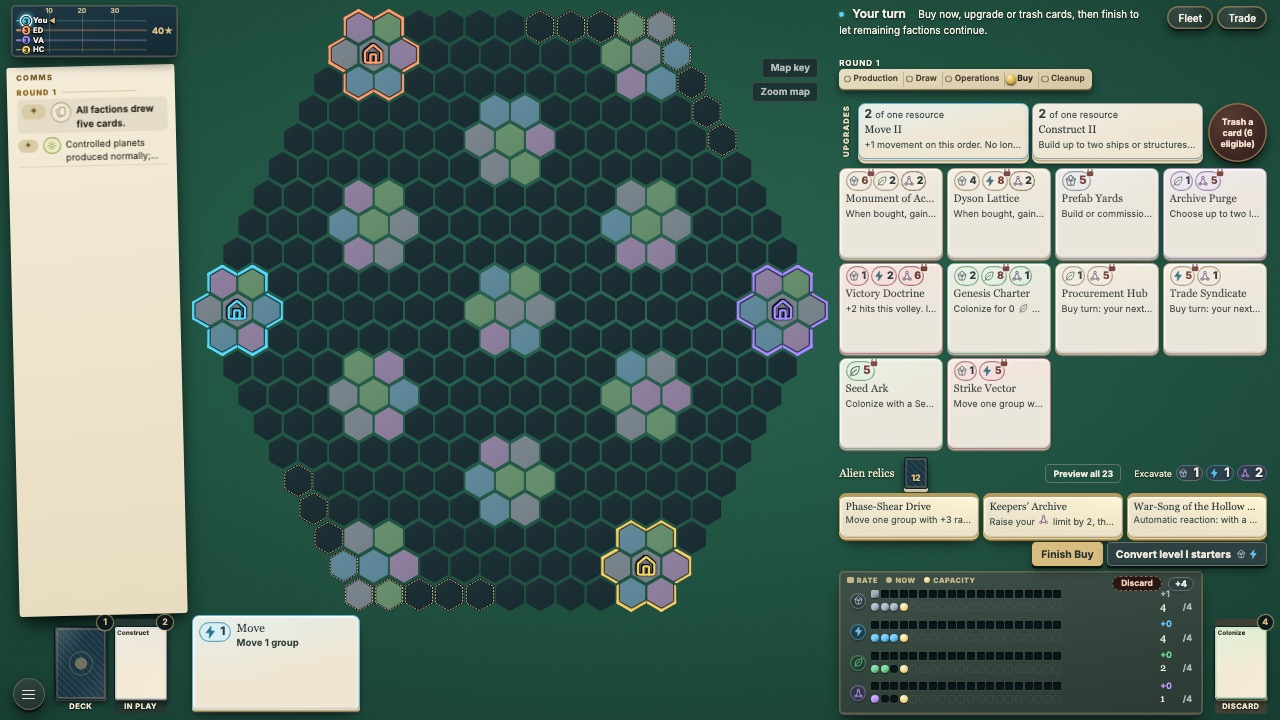
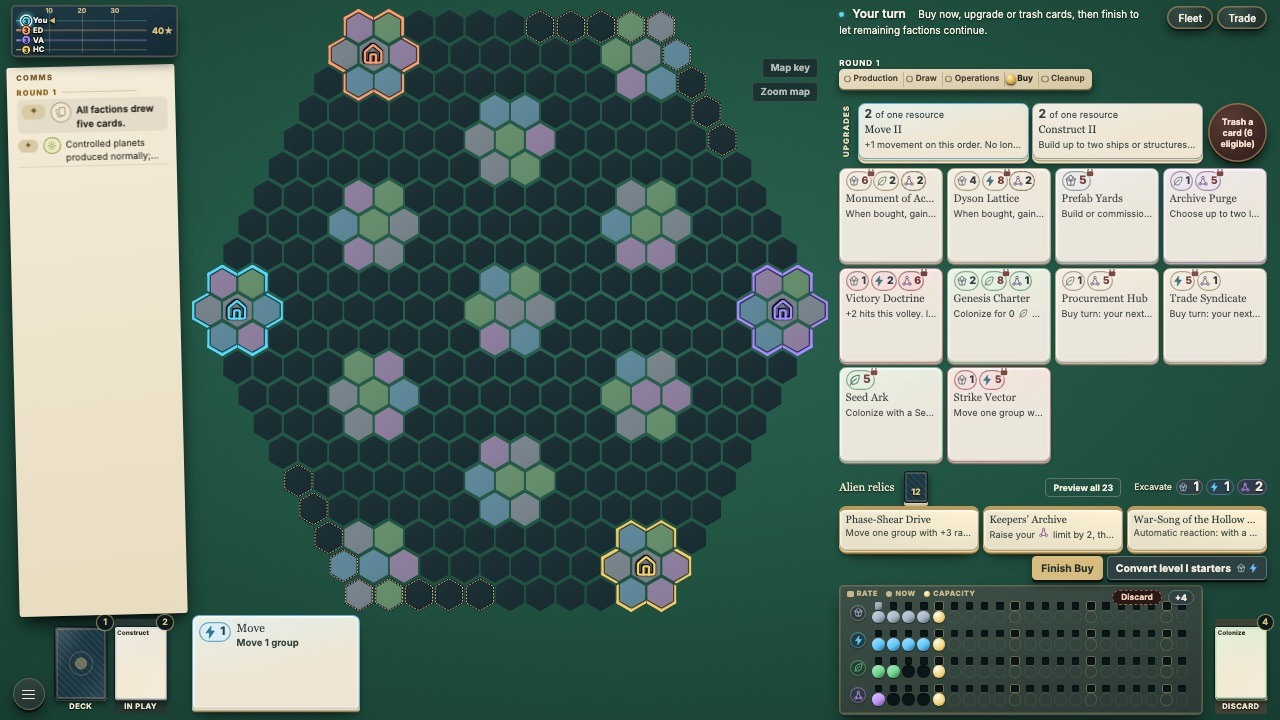
Mat without numbers: the gold capacity pip is a fence just right of the last usable slot, the Now row is larger than Rate, every fifth slot is marked

Changed region(s): [[0.6562, 0.6111, 1.0, 0.9778], [0.6562, 0.3361, 1.0, 0.4583], [0.6562, 0.4889, 1.0, 0.5806]]

diff --git a/prototypes/galactic-reach/rulebook.html b/prototypes/galactic-reach/rulebook.html
@@ -198,7 +198,7 @@
       <section id="buy">
         <h2>09 / Improve your deck</h2>
         <p id="deck-inspection">Click <strong>Deck</strong> to inspect the cards remaining in your draw pile. Cards are grouped by name, starter status, and level, with quantities. Their draw order is hidden. Opening this view does not draw, shuffle, or change cards. Other factions cannot inspect your deck. Replays show deck size only.</p>
-        <p id="player-mat">You keep <strong>Deck</strong>, <strong>In play</strong>, and <strong>Discard</strong> as separate piles; on a desktop window they lie as card piles (the deck face down, In play and Discard with their top card face up, each stack as thick as its count): Deck and In play left of your hand, Discard in the bottom-right corner, with the turn’s main button (<strong>Pass &amp; buy</strong> or <strong>Finish Buy</strong>) and <strong>Convert level I starters</strong> just above it. Your player mat lies in the bottom-right corner beside Discard, with <strong>Add 4 capacity</strong> as a small <strong>+4</strong> token on it (its cost shows when you point at or focus it), and Trade with the bank on the mat itself: drag from one resource’s Now row onto another resource to pay 4 for 1 (or choose the Now row, then the resource to receive); drop on <strong>Discard</strong> (or choose it) to discard one of that resource. While you drag, the resources you can receive light up and a note shows the trade, or why it cannot be made. Click a pile to inspect it. In play holds cards you have already used this round; Discard holds cards available for a later reshuffle, including newly gained cards. Inspecting a pile never moves its cards. Your player mat has a band for each resource with two aligned rows of 20 pip slots. <strong>Rate</strong> is filled up to that resource’s production per round. <strong>Now</strong> is filled up to your stock, with the capacity shown as one more pip, in gold, in the slot equal to the resource’s limit; the slots past it are closed, so raising the limit moves the gold pip to the right and opens more slots. A value past slot 20 shows its number there. Your hand is held as a slightly fanned row of card tops in front of the board: each top shows the card’s name and level, what it converts into in its corner, and a one-line summary of its order. A held card shows no price; prices appear only in the market. A card whose order you can use now is outlined in gold. Point at a card, or Tab to its buttons, to lift it and show the whole card at reading size beside the map; choose an order or conversion with its <strong>Use order</strong> or <strong>Convert</strong> button. You can also drag a card from your hand. While you drag, the hexes where its order can start light up; dropping it on one starts the order there, exactly as choosing it from <strong>Orders from your hand</strong> in that hex’s Sector Scan would. A Move dropped on your units chooses them to move, and a Construct or Colonize dropped on a hex opens that hex’s choices. Drop a card on your reserves to convert it, or anywhere on the map to play an order that needs no hex. Dropping it anywhere else, or pressing Escape, plays nothing. On a desktop window the whole table fits on screen without scrolling: the board, your hand, standings, reserves and the open tab of your controls stay in view together.</p>
+        <p id="player-mat">You keep <strong>Deck</strong>, <strong>In play</strong>, and <strong>Discard</strong> as separate piles; on a desktop window they lie as card piles (the deck face down, In play and Discard with their top card face up, each stack as thick as its count): Deck and In play left of your hand, Discard in the bottom-right corner, with the turn’s main button (<strong>Pass &amp; buy</strong> or <strong>Finish Buy</strong>) and <strong>Convert level I starters</strong> just above it. Your player mat lies in the bottom-right corner beside Discard, with <strong>Add 4 capacity</strong> as a small <strong>+4</strong> token on it (its cost shows when you point at or focus it), and Trade with the bank on the mat itself: drag from one resource’s Now row onto another resource to pay 4 for 1 (or choose the Now row, then the resource to receive); drop on <strong>Discard</strong> (or choose it) to discard one of that resource. While you drag, the resources you can receive light up and a note shows the trade, or why it cannot be made. Click a pile to inspect it. In play holds cards you have already used this round; Discard holds cards available for a later reshuffle, including newly gained cards. Inspecting a pile never moves its cards. Your player mat has a band for each resource with two aligned rows of pip slots, and no numbers: the pips carry the values, and every fifth slot is marked so a row counts at a glance. <strong>Rate</strong> (the smaller pips) is filled up to that resource’s production per round. <strong>Now</strong> (the larger pips) is filled up to your stock. A gold pip just right of the last slot you may fill marks the resource’s limit: every slot left of it is a place a resource can go, and the slots past it are closed, so raising the limit moves the gold pip to the right and opens more slots. A value past the end of the row shows its number there. Your hand is held as a slightly fanned row of card tops in front of the board: each top shows the card’s name and level, what it converts into in its corner, and a one-line summary of its order. A held card shows no price; prices appear only in the market. A card whose order you can use now is outlined in gold. Point at a card, or Tab to its buttons, to lift it and show the whole card at reading size beside the map; choose an order or conversion with its <strong>Use order</strong> or <strong>Convert</strong> button. You can also drag a card from your hand. While you drag, the hexes where its order can start light up; dropping it on one starts the order there, exactly as choosing it from <strong>Orders from your hand</strong> in that hex’s Sector Scan would. A Move dropped on your units chooses them to move, and a Construct or Colonize dropped on a hex opens that hex’s choices. Drop a card on your reserves to convert it, or anywhere on the map to play an order that needs no hex. Dropping it anywhere else, or pressing Escape, plays nothing. On a desktop window the whole table fits on screen without scrolling: the board, your hand, standings, reserves and the open tab of your controls stay in view together.</p>
         <p id="market">As soon as you pass, you may buy any number of the <strong>ten face-up market cards</strong> you can afford. Pay each card’s price separately. Each purchase refills immediately, and you may buy a newly revealed card during the same Buy turn. There is no purchase-count limit. Choose Finish Buy whenever you are done. Move and Construct are not for sale in this playtest; your six starters are your only basic cards. Colonize and Probe are bundled only with unit commissions, and Excavate is the second option on the Explorer-bundled card. You cannot return to Operations this round.</p>
         <p>The market draws from one shuffled supply of 62 cards: two copies of each of 22 normal-deck designs and 9 military designs. A bought normal card enters your discard pile. A bought military card joins your <a href="#military-deck">military deck</a> instead. Refill the empty slot immediately from the supply. When the supply runs out, the market shrinks. A Wonder gives its Prestige the moment you buy it. A card you cannot buy right now is shaded in the market. Its price sits in the card’s top-left corner: a padlock marks each resource whose price is above your limit for it, and a dashed outline each one you hold too little of. The reason shows when you raise the card and on hover, for example <em>Needs 2 more Data</em> or <em>Raise Energy capacity to 6</em>.</p>
         <p>During the same Buy turn you may also:</p>

diff --git a/prototypes/galactic-reach/app.js b/prototypes/galactic-reach/app.js
@@ -3669,11 +3669,11 @@ function createGalacticReach(options = {}) {
   }
 
 
-  // Player mat tracks: slots 0..N-1; a value past the last slot sits there with its number shown.
-  // The player mat: for each resource a band of two aligned rows of 20 pip slots. Rate: filled up
-  // to the production per round. Now: filled up to the stock, with the capacity as one more pip in
-  // its own colour in the slot equal to the limit, and the slots past it closed. A value past slot
-  // 20 shows its number.
+  // The player mat: for each resource a band of two aligned rows of pip slots (20, and one more
+  // for the capacity fence). Rate: filled up to the production per round. Now: filled up to the
+  // stock; the capacity is a gold pip in the slot just right of the last usable one, a fence with
+  // every place a resource can go to its left, and the slots past it closed. Every fifth slot is
+  // marked so a row counts at a glance. A value past the row shows its number.
   const MAT_SLOTS = 20;
   const matSeen = {};
   let matPick = null;
@@ -3687,13 +3687,13 @@ function createGalacticReach(options = {}) {
     const limits = resourceLimits(viewSeat);
     const before = matSeen[viewSeat] || {};
     const mine = !replayMode && viewSeat === ME;
-    const pips = (value, from, extra = () => '') => Array.from({ length: MAT_SLOTS }, (_, i) => `<i class="${i < value ? 'full' : ''}${i < value && i >= from ? ' new' : ''}${extra(i)}"></i>`).join('') + (value > MAT_SLOTS ? `<b class="mat-lap">${value}</b>` : '');
+    const pips = (value, from, extra = () => '') => Array.from({ length: MAT_SLOTS + 1 }, (_, i) => `<i class="${i < value ? 'full' : ''}${i < value && i >= from ? ' new' : ''}${i % 5 === 4 ? ' five' : ''}${extra(i)}"></i>`).join('') + (value > MAT_SLOTS + 1 ? `<b class="mat-lap">${value}</b>` : '');
     $('#resource-grid').innerHTML = `<div class="mat-head" aria-hidden="true"><span class="mat-key rate"><i></i>Rate</span><span class="mat-key now"><i></i>Now</span><span class="mat-key cap"><i></i>Capacity</span>${mine ? '<span class="mat-hint">Drag 4 of one resource onto another to trade with the bank</span>' : ''}</div>` + RESOURCES.map(resource => {
       const have = player.resources[resource], cap = limits[resource], next = production[resource];
       const fill = have > cap ? 'over-cap' : have >= cap ? 'at-cap' : have + next > cap ? 'will-cap' : '';
       const was = before[resource] || { have, cap, next };
-      const capAt = Math.min(cap, MAT_SLOTS) - 1, capFrom = Math.min(was.cap, MAT_SLOTS) - 1;
-      // The capacity is just another pip, in its own colour, in the slot equal to the limit.
+      const capAt = Math.min(cap, MAT_SLOTS), capFrom = Math.min(was.cap, MAT_SLOTS);
+      // The capacity is a fence: a gold pip in the slot just right of the last usable slot.
       const nowRow = pips(have, was.have, i => `${i === capAt ? ` cap${capAt !== capFrom ? ' moved' : ''}` : i >= cap ? (i < have ? ' over' : ' shut') : ''}`);
       const label = `${RESOURCE_NAMES[resource]}: ${have} of ${cap}, +${next} per round`;
       return `
@@ -3701,9 +3701,9 @@ function createGalacticReach(options = {}) {
         ${resourceDot(resource)}
         <span class="resource-name">${RESOURCE_NAMES[resource]}</span>
         <span class="mat-pips rate" aria-hidden="true">${pips(next, was.next)}</span>
-        <span class="resource-production" aria-hidden="true" title="Production per round">+${next}</span>
+        <span class="resource-production" aria-hidden="true">+${next}</span>
         ${mine ? `<button type="button" class="mat-pips now" data-mat-trade="${resource}" aria-label="${label}. Trade 4 ${RESOURCE_NAMES[resource]} with the bank: choose this, then the resource to receive, or Discard">${nowRow}</button>` : `<span class="mat-pips now" aria-hidden="true">${nowRow}</span>`}
-        <strong class="resource-amount">${have}</strong><span class="resource-limit" title="Limit ${cap}">/${cap}</span>
+        <strong class="resource-amount" aria-hidden="true">${have}</strong><span class="resource-limit" aria-hidden="true">/${cap}</span>
       </article>`;
     }).join('') + (mine ? `<button type="button" class="mat-discard" data-mat-discard aria-label="Discard one of the chosen resource">Discard</button>` : '');
     matSeen[viewSeat] = Object.fromEntries(RESOURCES.map(resource => [resource, { have: player.resources[resource], cap: limits[resource], next: production[resource] }]));

diff --git a/prototypes/galactic-reach/styles.css b/prototypes/galactic-reach/styles.css
@@ -2427,3 +2427,17 @@ html { -webkit-text-size-adjust: 100%; text-size-adjust: 100%; }
   .prestige-marker b { flex: none; display: grid; place-items: center; min-width: 22px; height: 22px; padding: 0 3px; border: 2px solid #0d1a1d; border-radius: 11px; background: var(--player); color: #0d1a1d; font-size: 12px; font-weight: 800; }
   .prestige-name { font-weight: 700; letter-spacing: .02em; text-shadow: 0 1px 2px #000, 0 0 3px #000; }
 }
+
+/* ==== The mat without numbers: the pips carry every value. Both rows share one column per slot
+   (20 and the capacity fence); the Now pips fill their slot and the Rate pips are smaller, so
+   totals read first. Every fifth slot has a brighter rim. ==== */
+#resource-grid > .resource-box { grid-template-columns: 20px minmax(0, 1fr) !important; grid-template-areas: "icon rate" "icon now" !important; gap: 1px 7px !important; }
+#resource-grid .resource-box :is(.resource-production, .resource-amount, .resource-limit) { position: absolute !important; width: 1px !important; height: 1px !important; overflow: hidden !important; clip-path: inset(50%) !important; }
+#resource-grid .mat-pips { grid-template-columns: repeat(21, minmax(0, 16px)); gap: 3px; }
+#resource-grid .mat-pips.rate i { width: 58%; justify-self: center; align-self: center; border-radius: 2px; }
+#resource-grid .mat-pips.rate { align-items: center; }
+#resource-grid .mat-pips i.five:not(.full):not(.cap) { box-shadow: inset 0 1px 2px #000c, 0 0 0 1px #d9bd8075; }
+#resource-grid .mat-pips i.five.shut:not(.full) { box-shadow: inset 0 0 0 1px #d9bd8040; }
+#resource-grid .mat-pips i.five.full { box-shadow: 0 1px 1px #000a, 0 0 0 1px #f6e7b0b0; }
+/* The fence when the stock has gone past it: ringed in red. */
+#resource-grid .mat-pips.now i.cap.full { box-shadow: 0 0 0 2px var(--red); }
